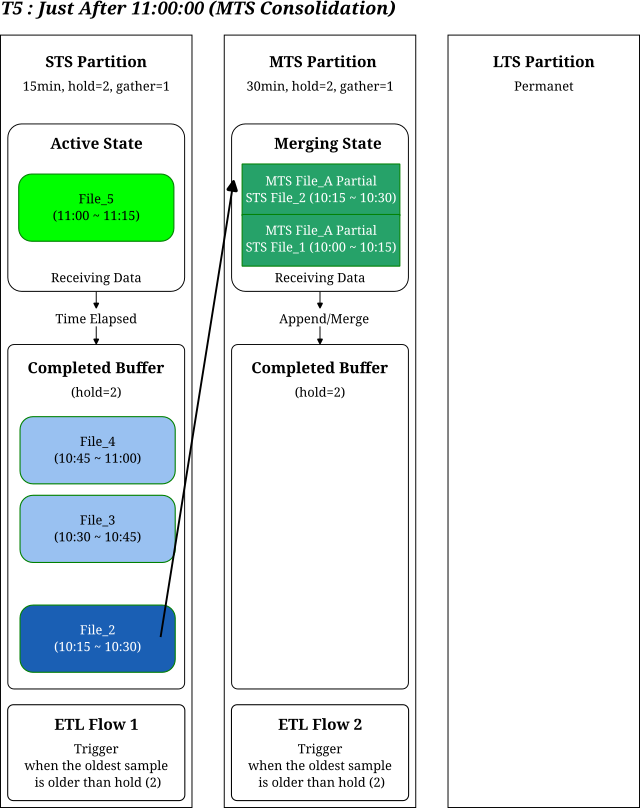
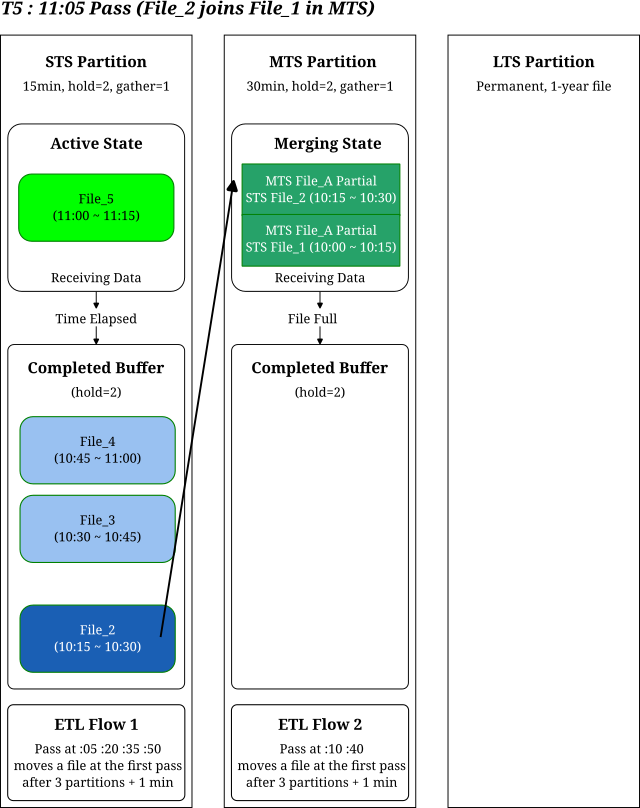
Rewrite the Data Journey document from runs of the real ETL
The document gives the pass schedule, the hold and gather rules, a timeline
whose rows come from a run, and the runs that verify it. The six figures and
the index row follow the new text.

diff --git a/docs/README.DataJourney.md b/docs/README.DataJourney.md
@@ -1,126 +1,259 @@
 ---
 title: The Data Journey in the EPICS Archiver Appliance
 author: Sangil Lee & Jeong Han Lee
-date: 2026-01-02
-version: 1.0
+date: 2026-10-18
+version: 1.1
 ---
 # The Data Journey in the EPICS Archiver Appliance
 
 **Author:** Sangil Lee & Jeong Han Lee
 
-This document outlines the storage hierarchy and ETL logic of the Archiver Appliance, incorporating a timestamped scenario to illustrate how data moves over time.
+This document explains when and how the ETL (the part of the appliance that moves archived data from one storage tier to the next) moves the data of one PV (Process Variable, a named data channel of the control system) from Short Term Storage (STS) to Middle Term Storage (MTS) and from MTS to Long Term Storage (LTS). It follows one scenario with exact times. The times, the file contents and the sample counts of the scenario come from a run of the real ETL pass scheduler, the real ETL job and the real storage plugins with a simulated clock (section 6).
 
 ## Executive Summary
 
-The Archiver Appliance utilizes a three-tiered storage strategy to balance high-speed data acquisition with long-term capacity management. Data flows from high-speed Short Term Storage (STS), is consolidated into larger files in Middle Term Storage (MTS), and finally rests in permanent Long Term Storage (LTS).
+The Archiver Appliance stores the data of a PV in three tiers. STS receives the samples, MTS receives the STS files and appends them into larger files, and LTS keeps the data permanently. The ETL moves data from one tier to the next in **passes**. A pass starts at fixed times, and in each pass the parameters `hold` and `gather` decide which files move.
 
-The crucial logic determining **when and how much data to move** between these tiers is defined by the ETL rules: `hold` and `gather`.
+The terms of this document:
 
+* **Partition:** the time span that one file covers. The file is named after the start of its partition. `P` is the partition length of a tier.
+* **Transition:** the move from one tier to the next: STS to MTS, and MTS to LTS.
+* **Pass:** one run of the ETL jobs of the PVs that share a transition and a cadence. Passes start at fixed times (section 2).
+* **Processing time `T_PROCESS`:** the time that a pass uses as its current time: the start of the pass minus 60 seconds.
+* **`hold` and `gather`:** settings of a tier that decide which of its files a pass moves (section 3).
+* **Hold boundary and gather boundary:** two times computed from `T_PROCESS` that the first samples of files are compared with (section 3, steps 2 and 3).
+* **Move and append:** a move appends the samples of the source file to a file of the destination and then deletes the source file. Each source file that is appended to a destination file is one part of that file. A file arrives in a tier when its first sample, or its first part, is written to that tier.
+* **Candidate and eligible:** a candidate is a file that a pass considers (section 3, step 1). An eligible candidate is a candidate that the pass moves: its first sample is at or before the gather boundary, and the oldest candidate that holds a sample has passed the hold boundary. With `hold=0` and `gather=0` every candidate that holds a sample is eligible, but a header-only candidate (a file that has a header but no sample) stops the job at that file (Files without samples).
+* **Over and full:** a partition is over when its time span has ended. A file is full when it holds all samples of its partition. An STS file is full when its partition is over. An MTS file is full when its last part has arrived, which can be after its partition is over. An MTS file that lacks a part never becomes full and moves by the time rule (Fullness in section 3).
+
+The two facts that answer most questions:
+
+* **When:** with `gather=1` and fixed-length partitions (`PARTITION_5MIN` to `PARTITION_DAY`; otherwise use the steps of section 3), a file whose partition starts at time `S` moves in the first pass that starts at or after `S + (hold + 1) * P + 60 s`, where `P` is the partition length and `hold` the setting of the tier that the file leaves. A file that is eligible when it arrives in the source tier moves in the first pass after it arrives. The rule needs `hold` and `gather` above zero; for `hold=0` and `gather=0` see Defaults in section 3. The pass starts come from a fixed schedule (section 2), except the start-up pass after the ETL starts, a scheduled time that an overrun skips, and a pass that waits for a running pass of a lower-numbered transition.
+* **How:** the destination appends the samples of the source file to its own file for the destination partition that contains them. Two 15-minute STS files are appended into one 30-minute MTS file, and the move deletes the source file. With `gather=1` and a destination partition that spans two source partitions, the data of the first file waits in the destination until the next file arrives.
 
 ## 1. Storage Tiers and File Units
 
+The scenario uses the following settings. All times are UTC.
+
+| Item | Value |
+| :--- | :--- |
+| STS partition | `PARTITION_15MIN`: one file holds 15 minutes |
+| MTS partition | `PARTITION_30MIN`: one file holds 30 minutes |
+| LTS partition | `PARTITION_YEAR`, the shipped value: one file holds one year |
+| ETL rule | `hold=2`, `gather=1` on STS and MTS |
+| Samples | one sample every 10 seconds, the first at 10:00:00 |
+
+The data of a PV is stored in `.pb` files. Each file covers one partition of its tier and is named after the start of that partition in UTC, for example `ApplTest/AN/F/Analog10:2026_01_01_10_15.pb` for the 15-minute partition that starts at 10:15 on the date of the scenario, 2026-01-01. A full 15-minute STS file of the scenario holds 90 samples, a full 30-minute MTS file holds 180 samples, and the LTS file grows by the samples of every file that arrives.
+
 Data moves through the following stages:
 
-1.  **STS (Short Term Storage):**
-    * Role: Designed for high-frequency writes, typically on fast media like RAMDisks or SSDs. Files here are temporary and meant for ETL migration.
-    * File Unit: In this scenario, we use a `PARTITION_15MIN` granularity, meaning each `.pb` file holds 15 minutes of data.
-2.  **MTS (Middle Term Storage):**
-    * Role: An intermediate staging area that consolidates smaller files from STS into larger units. Data here is also temporary.
-    * File Unit: Here, we use `PARTITION_30MIN`, consolidating two 15-minute files from STS into one 30-minute file.
-3.  **LTS (Long Term Storage):**
-    * Role: The final destination for the permanent archiving of historical data.
+1.  **STS:** Designed for high-frequency writes, typically on fast media such as a RAM disk or an SSD. Files here are temporary and meant for ETL migration.
+2.  **MTS:** An intermediate area that appends the smaller STS files into larger units. Files here are also temporary.
+3.  **LTS:** The final destination of the data. Because the LTS partition is one year, the data that arrives in LTS is appended to one file for the year; it does not stay as separate files of 30 minutes.
 
-### Two Critical File States
+### File States
 
-Data files exist in one of two states based on time:
+* **Active:** The partition of the file contains the current time, and the file receives samples.
+* **Completed:** An STS file is completed when its partition is over; an MTS file is completed when it is full (see Over and full in the Executive Summary).
+* **Partial (MTS):** an MTS file that has received only some of its parts. The figures label such a file Partial; the box that holds it is the Merging State. A partial file is not completed. A partial file can be a candidate: a file is a candidate in a pass when its partition starts before the partition that contains the processing time of the pass (section 3).
 
-* **Active State:** The file is currently being written to, and its defined time duration has not yet elapsed.
-* **Completed State:** The time duration has passed, and the file is closed. ETL movement rules (`hold`) apply ONLY to these 'Completed' files.
+## 2. When the ETL Runs
 
+The ETL does not run at the moments when partitions end. Each transition between two tiers has a schedule of fixed pass start times.
 
-## 2. Data Movement Rules: ETL Flow Control
+* **Cadence:** the length of the source partition, at most 8 hours. STS of 15 minutes gives 900 s, MTS of 30 minutes gives 1800 s.
+* **Offset:** 5 minutes times (transition number + 1). STS to MTS is transition 0 with offset 5 minutes. MTS to LTS is transition 1 with offset 10 minutes.
+* **Schedule:** the pass start times are whole multiples of the cadence counted from the Unix epoch, plus the offset.
+* **Start:** a pass starts at the first check (the scheduler checks every 5 seconds) at or after its scheduled time. A pass does not start while a pass of a lower-numbered transition is running; it starts at the first check after that pass ends.
+* **Overrun:** when a pass ends after the next scheduled time of its transition, the scheduled times inside the pass are skipped, and the next pass starts at the first scheduled time after the pass ended.
+* **PVs:** one pass runs the jobs of all PVs that use the same transition and cadence, one after another. Each pair of transition and cadence has its own driver, so PVs with different source partitions run in different passes.
+* **Processing time:** every job of a pass uses the start time of the pass minus 60 seconds as its current time. The 60 seconds are a fixed margin of the scheduler. All boundaries in section 3 are computed from this time.
+* **Start of the ETL:** each driver that holds at least one PV runs a start-up pass. The drivers of transition 0 start it at the first check after the ETL starts; a driver of a higher transition starts it at the first check at which no pass of a lower transition runs. A driver without PVs waits for its next scheduled time.
 
-The rules for moving data between tiers are dictated by the `hold` and `gather` parameters. This explanation uses the recommended configuration of `hold=2` and `gather=1`.
+For the scenario this gives (the tables assume that a pass starts on its scheduled time; the real start is the first check, up to 5 seconds later):
 
-ETL uses time boundaries derived from the evaluation time and the tier's partition duration.
+| Transition | Cadence | Offset | Pass starts | Processing time |
+| :--- | :--- | :--- | :--- | :--- |
+| STS to MTS | 900 s | 5 min | hh:05, hh:20, hh:35, hh:50 | hh:04, hh:19, hh:34, hh:49 |
+| MTS to LTS | 1800 s | 10 min | hh:10, hh:40 | hh:09, hh:39 |
 
-* `hold`: Subtract `hold` times the approximate partition duration from the evaluation time, then take the last second of the preceding partition. The oldest candidate file must have its first sample at or before this boundary.
-* `gather`: Compute a second boundary in the same way using `hold - (gather - 1)` partition durations. Select files whose first samples are at or before that boundary. With `hold=2` and `gather=1`, both boundaries are the same.
-* A delayed ETL run can select several files even with `gather=1`. Missing partitions do not postpone eligibility; the age of the available data determines when it can move.
-* Use nonnegative values with `hold >= gather`; equality is allowed. Both values default to zero, which skips these boundaries and takes the available candidates before the current partition.
+The shipped policy (STS `PARTITION_HOUR`, MTS `PARTITION_DAY`, LTS `PARTITION_YEAR`, `hold=2` and `gather=1` on STS and MTS) gives:
 
-See [ETL flow control](README.policies.md#23-etl-flow-control) for the policy parameter reference.
+| Transition | Cadence | Offset | Pass starts (UTC) |
+| :--- | :--- | :--- | :--- |
+| STS to MTS | 3600 s | 5 min | every hour at hh:05 |
+| MTS to LTS | 28800 s (the 8-hour limit) | 10 min | 00:10, 08:10 and 16:10 |
 
-## 3. Timeline Scenario: A Day in the Life of Data
+## 3. What One Pass Moves: `hold` and `gather`
 
-Let's trace the journey of data with a concrete timeline to visualize the flow.
+Let `P`, `hold` and `gather` be the settings of the tier that the files leave (STS for the move to MTS, MTS for the move to LTS), and `T_PROCESS` the processing time of the pass.
 
-**Scenario Settings:**
-* Start Time: 10:00:00 AM
-* STS Partition: 15 minutes
-* MTS Partition: 30 minutes
-* ETL Rule: `hold=2`, `gather=1`
+1. **Candidates:** the files of the PV whose partition starts before the partition that contains `T_PROCESS`, from the oldest to the newest.
+2. **Hold boundary:** subtract `hold * P` from `T_PROCESS`, find the partition that contains the result, and take the last second of the partition before it. The oldest candidate that holds a sample must have its first sample at or before this boundary; a zero-byte or header-only candidate before it is skipped, and deleted when it is old (Files without samples). If the first sample of that candidate is later, nothing moves in this pass.
+3. **Gather boundary:** compute a boundary in the same way with `hold - (gather - 1)` partitions instead of `hold`. Every candidate whose first sample is at or before this boundary moves. With `gather=1` both boundaries are the same, whatever the value of `hold`.
+4. **Defaults:** `hold=0` and `gather=0` skip both boundaries, and every candidate that holds a sample moves. A header-only candidate breaks this: the job of the PV fails at that file, and no file of the pass is deleted from the source (Files without samples). Use nonnegative values with `hold >= gather`; equality is allowed.
 
-All times are UTC. The example assumes continuous samples from 10:00 and ETL evaluations at the times shown. File counts describe the displayed state; the time boundaries determine eligibility.
+**Closed form.** The closed form holds for `hold` and `gather` above zero; for `hold=0` and `gather=0` see Defaults below. For files whose first sample is at the start of their partition, as in the scenario, the rule says: a file with partition start `S` moves in the first pass with `T_PROCESS >= S + (hold - gather + 2) * P`, provided that the oldest candidate that holds a sample, with partition start `S_oldest`, satisfies `T_PROCESS >= S_oldest + (hold + 1) * P`. With `gather=1` this is `T_PROCESS >= S + (hold + 1) * P`, so the pass must start at or after `S + (hold + 1) * P + 60 s`. The formula is exact for tiers of a fixed partition length (`PARTITION_5MIN` to `PARTITION_DAY`). For `PARTITION_MONTH` and `PARTITION_YEAR` the subtraction uses 31 and 366 days and the partitions are calendar months and years, so use the steps above. With `PARTITION_MONTH` and `hold=1`, the file of February moves on 1 April, while the formula gives 4 April. A file that is eligible when it arrives in the source tier moves in the first pass that starts after it arrives. A file whose first sample lies inside its partition, up to the last whole second (for example 10:07:30 or 10:14:59.0), moves in the same pass as a file that starts at the partition start; it holds fewer samples. A first sample after the last whole second, such as 10:14:59.5, is later than the boundary, and the file moves one partition later.
+
+**Worked example.** At the 10:50 pass, `T_PROCESS` is 10:49:00. Subtracting `2 * 15 min` gives 10:19:00. This lies in the partition 10:15 to 10:30, so the boundary is 10:14:59, the last second of the partition 10:00 to 10:15. The candidates are File_1 (10:00), File_2 (10:15) and File_3 (10:30). The partition of File_4 (10:45) contains `T_PROCESS`, so it is the active file. The first sample of File_1 is 10:00:00, which is at or before 10:14:59, so File_1 moves. The first sample of File_2 is 10:15:00, which is after the boundary, so File_2 stays. At the 10:35 pass `T_PROCESS` is 10:34:00, the boundary is 09:59:59, and File_1 (10:00:00) is after it, so nothing moves.
+
+**Why `hold` waits.** Keeping the files of the newest `hold` partitions in the source tier lets retrievals of recent data read from the faster tier.
+
+**How the destination receives the data.** The job appends the samples of the source file to the destination file of the partition that contains them. The destination file is created when the first part arrives and receives the next parts until it is full or moves to the next tier (Fullness). The source file is deleted after the destination has stored its samples, so during a move the file exists in both tiers.
+
+**More than one file per pass.** `gather` sets the second boundary, which decides how many files move together. With `hold=2` and `gather=2`, File_1 and File_2 leave STS together at the 10:50 pass and the MTS file for 10:00 to 10:30 appears with 180 samples at once; the next move is File_3 and File_4 at 11:20, then every 30 minutes. With `gather=2` on STS only and `gather=1` on MTS, the MTS to LTS transition keeps moving one file at a time: the 10:00 file at 11:40 and the 10:30 file at 12:10. A pass that starts late can also select several files with `gather=1`, because every eligible candidate moves. A missing partition does not delay a move: the age of the oldest available data decides.
+
+**Fullness.** The rule compares times only and does not check whether a file is full. A partial MTS file moves when its boundary is met, and the parts that arrive later form a new file for the same partition, which moves in a later pass. In the scenario and in the shipped policy an MTS file is full before its boundary is met.
+
+**Defaults.** With `hold=0` and `gather=0`, each STS file moves in the first pass whose processing time `T_PROCESS` is at or after the end of its partition: File_1 at 10:20, File_2 at 10:35, and so on.
+
+**Samples at the edges.** A partition includes its first second and excludes the instant at which the next partition starts: File_1 covers 10:00:00 up to, but not including, 10:15:00, so the sample stamped 10:15:00 belongs to File_2, and the last sample of File_1 is 10:14:50. In the simulated run, a sample stamped at the start of a pass is appended after the pass runs, so the active file at the 10:50 pass holds 30 samples (10:45:00 to 10:49:50). A real pass starts up to 5 seconds after its scheduled time, and its active file can also hold the sample stamped 10:50:00.
+
+**Files without samples.** The plugin skips a zero-byte file and deletes it when its modification time in the file system is more than `hold + 1` partitions before the processing time `T_PROCESS`. A header-only file is skipped and deleted in the same way when `hold` or `gather` is above zero. With `hold=0` and `gather=0` the job of the PV fails with a `NullPointerException` at that file: the candidates before it are appended to the destination, the candidates after it are not processed, and no file of the pass is deleted from the source.
+
+### Where the Settings Come From
+
+The shipped `policies.py` is rendered from `site-template/policies.py.in`. It sets the partition and the `hold` of each tier from the Make variables `ARCHAPPL_STS_GRANULARITY`, `ARCHAPPL_STS_HOLD`, `ARCHAPPL_MTS_GRANULARITY`, `ARCHAPPL_MTS_HOLD` and `ARCHAPPL_LTS_GRANULARITY`; see [Store settings as build variables](README.policies.md#55-store-settings-as-build-variables). The template fixes `gather=1` on STS and MTS and accepts only positive integers for `hold`. A value such as `gather=2`, or the defaults `hold=0` and `gather=0`, needs an edit of the template `site-template/policies.py.in`. `make conf` renders `site-template/policies.py` from the template, and `make install` copies that file over the installed `policies.py`. An edit of the template takes effect after `make conf`, and an edit of the installed file is lost at the next `make install`.
+
+A changed template or Make variable reaches only the PVs that are archived after the change. When a PV is archived, its store URLs with their `hold` and `gather` are written to the type information of the PV, and the ETL builds the source and the destination of each transition from those URLs. A PV that was archived before the change keeps its stored URLs after `policies.py` changes (section 6).
+
+## 4. Timeline Scenario: A Day in the Life of Data
+
+The scenario starts with the first sample at 10:00:00. The ETL runs before that, so its passes follow the schedule of section 2. The table shows the first partition changes and then every pass up to 13:10 that moves data. In every other pass up to 13:10 the files stay where they are, because no candidate is eligible or no candidate exists: 10:05, 10:10, 10:20, 10:35, 10:40 and 11:10 are examples.
+
+|Time|Pass|What moves|STS after the pass|MTS after the pass|LTS after the pass|
+| :--- | :--- | :--- | :--- | :--- | :--- |
+|10:00| |The first sample arrives|File_1 (10:00) active| | |
+|10:15| |File_1 is completed with 90 samples; File_2 starts|File_1 completed; File_2 active| | |
+|10:30| |File_2 is completed with 90 samples; File_3 starts|File_1, File_2 completed; File_3 active| | |
+|10:45| |File_3 is completed with 90 samples; File_4 starts|File_1, File_2, File_3 completed; File_4 active| | |
+|10:50|STS to MTS|File_1 moves|File_2, File_3 completed; File_4 active|10:00 file, 90 samples| |
+|11:05|STS to MTS|File_2 moves|File_3, File_4 completed; File_5 active|10:00 file full, 180 samples| |
+|11:20|STS to MTS|File_3 moves|File_4, File_5 completed; File_6 active|10:00 file; 10:30 file, 90 samples| |
+|11:35|STS to MTS|File_4 moves|File_5, File_6 completed; File_7 active|10:00 file; 10:30 file full, 180 samples| |
+|11:40|MTS to LTS|The 10:00 file moves|File_5, File_6 completed; File_7 active|10:30 file|180 samples (10:00 to 10:30)|
+|11:50|STS to MTS|File_5 moves|File_6, File_7 completed; File_8 active|10:30 file; 11:00 file, 90 samples|180|
+|12:05|STS to MTS|File_6 moves|File_7, File_8 completed; File_9 active|10:30 file; 11:00 file full|180|
+|12:10|MTS to LTS|The 10:30 file moves|File_7, File_8 completed; File_9 active|11:00 file|360 (10:00 to 11:00)|
+|12:20|STS to MTS|File_7 moves|File_8, File_9 completed; File_10 active|11:00 file; 11:30 file, 90 samples|360|
+|12:35|STS to MTS|File_8 moves|File_9, File_10 completed; File_11 active|11:00 file; 11:30 file full|360|
+|12:40|MTS to LTS|The 11:00 file moves|File_9, File_10 completed; File_11 active|11:30 file|540 (10:00 to 11:30)|
+|12:50|STS to MTS|File_9 moves|File_10, File_11 completed; File_12 active|11:30 file; 12:00 file, 90 samples|540|
+|13:05|STS to MTS|File_10 moves|File_11, File_12 completed; File_13 active|11:30 file; 12:00 file full|540|
+|13:10|MTS to LTS|The 11:30 file moves|File_11, File_12 completed; File_13 active|12:00 file|720 (10:00 to 12:00)|
+
+The table shows the state after each event. Between two events the partitions roll over: at 12:00 File_8 is completed and File_9 starts, so the state at 12:00 is the row of 11:50 with File_8 completed and File_9 active.
+
+File_n is the STS file that starts at 10:00 plus (n - 1) times 15 minutes, so File_11 starts at 12:30 and File_13 at 13:00.
+
+The durations follow from the table and the rule of section 3. They are ages counted from the start of the partition, not the time that a file spends in the tier:
+
+* With `gather=1` and `hold` above zero, a file leaves its tier in the first pass that starts at or after `(hold + 1) * P + 60 s` after its partition began. When the partition has a fixed length (`PARTITION_5MIN` to `PARTITION_DAY`), the cadence divides it, and the offset is smaller than the cadence, the pass schedule is aligned to the partition starts, and the age at which the file leaves is `(hold + 1) * P` plus the offset of the transition (5 minutes times (transition number + 1)).
+* In the scenario an STS file leaves STS 50 minutes after its partition starts: 45 minutes plus the offset of 5 minutes. An MTS file leaves MTS 100 minutes after its partition starts: 90 minutes plus the offset of 10 minutes. The 10:00 file is full at 11:05 and leaves at 11:40.
+* The time in a tier is shorter: the two parts of the 10:00 MTS file arrive at 10:50 and 11:05 and leave together at 11:40, after 50 and 35 minutes.
+* With the shipped policy (STS one hour, MTS one day, `hold=2`), an STS file that starts at 10:00 leaves at 13:05 (3 hours plus 5 minutes), and the MTS file of a day leaves at 00:10 UTC, three days after that day begins (3 days plus 10 minutes).
+
+### Reading the Figures
+
+Each figure shows one tier in each column.
+
+* **Active State** (STS) and **Merging State** (MTS) hold the file that receives data. In MTS this is the file of the 30-minute partition that receives the arriving STS files as appended parts; the long black arrow from the STS Completed Buffer to the MTS box is the move and append of section 3, and the small arrow labeled **File Full** inside the MTS column shows the full MTS file moving to its Completed Buffer.
+* **Completed Buffer** holds the files that wait for a pass: in STS the files whose partition is over, in MTS the full files. An MTS file that is not full yet is in the Merging State. The label `(hold=2)` names the setting. In the STS of the scenario the buffer holds three files just before a move and two after it; in the MTS it holds two and one. The MTS count is smaller because each MTS file receives its parts 50 and 65 minutes after its partition starts: at 11:40 the file of 11:00 to 11:30 is not in MTS yet. Figure 6 is drawn in the middle of the 12:35 pass, before File_D is full, so its MTS buffer shows only File_C, the MTS file of 11:00 to 11:30. The dark blue file is the one that the pass moves.
+* **Time Elapsed** is the arrow from the active box to the completed buffer: a file goes there when its partition is over. **Receiving Data** is the fixed label of an active box, also when the box is empty. **ETL Flow 1** and **ETL Flow 2** give the pass times of the transition and the age at which a file moves: the first pass at least `hold + 1` partitions and 1 minute after the start of its partition.
+* The titles of the columns ("STS Partition", "MTS Partition", "LTS Partition") name the tier; the word partition there is not the time span of the terms list. The subtitle of an STS or MTS column gives the partition length, `hold` and `gather` of the tier; the subtitle of the LTS column names its one-year file.
+* Colors: green is the active file, light blue a completed file, dark blue the file that the pass moves, teal an MTS file that receives parts, light green the part that has not arrived, and purple data in LTS. **Partial** names an MTS file that has not received all its parts when the pass starts; in Figures 5 and 6 the file is drawn with both parts because the pass makes it full. The purple box of Figure 6 shows the range of data inside the one LTS year file; it is not a partition.
+* Figures 4 to 6 draw a pass in progress: the moving file is drawn in its source tier and, joined by the arrow, in its destination.
+* File_1, File_2, and so on are the STS files. File_A, File_B, File_C and File_D are the MTS files of 10:00-10:30, 10:30-11:00, 11:00-11:30 and 11:30-12:00. LTS holds one file for the year.
 
 ### [T1] 10:00:00 - 10:15:00 (The First 15 Minutes)
 * **STS:** The first file, `File_1 (10:00-10:15)`, is created. Data is actively being written to it (Active State).
+* **Passes:** The 10:05 pass finds no candidate: File_1 is the active file.
 
 |![T1](./figures/T1.png)|
 | :---: |
 |**Figure 1** T1, The First 15 Minutes|
 
 ### [T2] 10:15:00 - 10:30:00 (The Second 15 Minutes)
-* **STS:** `File_1` completes its 15-minute span and moves to the Completed buffer.
-    * Completed Buffer Count: 1 (`File_1`).
-    * *Action:* At 10:15, the STS boundary is 09:44:59. `File_1` starts at 10:00, so it is not yet eligible.
-* **STS:** A new file, `File_2 (10:15-10:30)`, begins writing (Active State).
+* **STS:** `File_1` is completed and waits. `File_2 (10:15-10:30)` begins writing.
+* **Passes:** At the 10:20 pass, `T_PROCESS` is 10:19:00 and the boundary is 09:44:59. The first sample of File_1 is 10:00:00, which is after the boundary, so File_1 is not eligible.
 
 |![T2](./figures/T2.png)|
 | :---: |
 |**Figure 2** T2, The Second 15 Minutes|
 
 ### [T3] 10:30:00 - 10:45:00 (The Third 15 Minutes)
-* **STS:** `File_2` completes and enters the buffer.
-    * Completed Buffer Count: 2 (`File_1`, `File_2`).
-    * *Action:* At 10:30, the STS boundary is 09:59:59. `File_1` starts at 10:00, so it is still not eligible.
-* **STS:** A new file, `File_3 (10:30-10:45)`, begins writing.
+* **STS:** `File_2` is completed. Two files are completed, `File_1` and `File_2`, and `File_3 (10:30-10:45)` begins writing.
+* **Passes:** At the 10:35 pass, `T_PROCESS` is 10:34:00 and the boundary is 09:59:59. The first sample of File_1 is 10:00:00, which is after the boundary, so File_1 is not eligible.
 
 |![T3](./figures/T3.png)|
 | :---: |
 |**Figure 3** T3, The Third 15 Minutes|
 
-### [T4] Just After 10:45:00 (ETL Trigger Moment)
-* **STS:** `File_3` completes and enters the buffer.
-    * Completed Buffer Count: 3 (`File_1`, `File_2`, `File_3`).
-    * *Trigger:* At 10:45, the STS boundary is 10:14:59. The first sample in `File_1` is at or before it.
-    * *Action:* `File_1 (10:00-10:15)` is moved to MTS. `File_2` starts at 10:15 and remains in STS.
-* **MTS:** `File_1` arrives in MTS. It becomes the first half (Active State) of a new 30-minute partition covering `10:00-10:30`.
+### [T4] 10:50 (The STS to MTS Pass That Moves File_1)
+* **STS:** `File_3` completed at 10:45, and `File_4 (10:45-11:00)` is the active file. Three files are completed: `File_1`, `File_2` and `File_3`.
+* **Trigger:** At the 10:50 pass, `T_PROCESS` is 10:49:00 and the boundary is 10:14:59. The first sample of `File_1` is at or before it.
+* **Action:** `File_1 (10:00-10:15)` moves to MTS. The first sample of `File_2` is 10:15:00, and File_2 remains in STS. After the pass two files are completed: with `gather=1`, `hold` completed files remain.
+* **MTS:** `File_1` arrives and creates the file for the partition `10:00-10:30` with 90 samples. The file waits for the second half.
 
 |![T4](./figures/T4.png)|
 | :---: |
-|**Figure 4** T4, Just After 10:45:00|
+|**Figure 4** T4, The 10:50 Pass|
 
-
-### [T5] Just After 11:00:00 (MTS Consolidation)
-* **STS:** At 11:00, the STS boundary advances to 10:29:59, making `File_2 (10:15-10:30)` eligible to move to MTS.
-* **MTS:** `File_2` arrives and is merged/appended with the waiting `File_1`.
-* **Result:** A complete 30-minute file for the total period `10:00-10:30` is formed. At 11:00, the MTS boundary is 09:59:59, so its first sample at 10:00 is not yet eligible to move to LTS.
+### [T5] 11:05 (The Pass That Fills the First MTS File)
+* **STS:** At the 11:05 pass, `T_PROCESS` is 11:04:00 and the boundary is 10:29:59, so `File_2 (10:15-10:30)` is eligible. `File_5 (11:00-11:15)` is active.
+* **MTS:** `File_2` is appended to the waiting `File_1`. The file for `10:00-10:30` holds 180 samples and is full.
+* **LTS:** The MTS file has to wait: at the 11:10 pass, `T_PROCESS` is 11:09:00 and the MTS boundary is 09:59:59, so its first sample at 10:00 is not eligible. It moves at 11:40, the first pass with `T_PROCESS` of 11:30 or later.
 
 |![T5](./figures/T5.png)|
 | :---: |
-|**Figure 5** T5, Just After 11:00:00|
+|**Figure 5** T5, The 11:05 Pass|
 
+### [T6] 12:35 (Continuous Operation)
 
-### [T6] Long After T5 (Continuous Operation)
+After a longer period, the system reaches a steady state: every 15 minutes an STS file leaves STS, every 30 minutes MTS receives the last part of a file, and every 30 minutes the oldest MTS file moves to LTS. The figure shows the 12:35 pass.
 
-After a longer period, the system reaches a steady state: STS keeps completing files and handing the oldest one to MTS, MTS keeps assembling them, and data that has aged past the MTS `hold` boundary keeps moving on to LTS. This final image illustrates the complete end-to-end data flow.
-
-* **STS:** `File_11 (12:30-12:45)` is receiving data, while `File_10`, `File_9` and `File_8` wait in the Completed buffer. `File_8 (11:45-12:00)` is the one ETL is moving out.
-* **MTS:** `File_D` is being assembled from the arriving `File_7` and `File_8`. Its Completed buffer is empty.
-* **LTS:** `File_C (11:00-11:30)`, `File_B (10:30-11:00)` and `File_A (10:00-10:30)` now sit in permanent storage. At this 12:30 evaluation the MTS `hold` of 2 over a 30-minute partition puts the boundary at 11:29:59, and any file whose first sample is at or before it has already left MTS. `File_B` and `File_C` both qualify, which is why the MTS Completed buffer is empty.
+* **STS:** `File_11 (12:30-12:45)` is receiving data, while `File_10`, `File_9` and `File_8` wait as completed files. `File_8 (11:45-12:00)` is the one the pass moves out.
+* **MTS:** `File_D (11:30-12:00)` receives `File_7`, which arrived at 12:20, and `File_8`, which arrives in this pass. `File_C (11:00-11:30)` is full and waits for the MTS to LTS pass at 12:40.
+* **LTS:** The data of `File_A (10:00-10:30)` and `File_B (10:30-11:00)` is in the LTS file, which holds 360 samples. `File_C` joins at 12:40 and `File_D` at 13:10.
 
 |![T6](./figures/T6.png)|
 | :---: |
-|**Figure 6** T6, Long After T5|
+|**Figure 6** T6, The 12:35 Pass|
 
+## 5. Reading the Numbers
+
+* **`hold`:** how many further partitions of the source tier must elapse after a file's own partition. With `gather=1`, a file can leave when `hold + 1` partition lengths have passed since its partition began; with a larger `gather`, the files after the oldest leave earlier (Closed form in section 3). With `gather=1`, `hold` completed files remain in the STS of the scenario after a pass that moved a file; with a larger `gather`, `hold - gather + 1` remain. In the MTS of the scenario one full file remains after a pass of MTS to LTS, because the file of the next partition has not arrived yet; the count in a tier depends on when the parts arrive, so it is not `hold` in general. The rule counts time, not the number of files in the source tier.
+* **`gather`:** sets the boundary for the files that move after the oldest candidate that holds a sample has satisfied `hold`. Every candidate at or before the gather boundary moves; in the scenario, a pass on the regular schedule that moves files moves `gather` files, and a late pass can move more (More than one file per pass in section 3). With `gather=2` in the scenario, a move happens every second pass.
+* **Boundary times such as 10:14:59:** the hold boundary is the last second of the partition that precedes the partition containing `T_PROCESS - hold * P` (section 3, step 2); section 3, step 3 gives the gather boundary. A candidate moves when its first sample is at or before the gather boundary and the oldest candidate that holds a sample has passed the hold boundary.
+* **Processing time `T_PROCESS`:** the start of the pass minus 60 seconds. Every boundary is computed from `T_PROCESS`, not from the start time of the pass.
+* **Sample counts such as 90 and 180:** one sample every 10 seconds gives 6 samples per minute, 90 samples in 15 minutes and 180 samples in 30 minutes. In the scenario, a file with a smaller count is receiving data or waits for its second half. A real PV has a count that depends on its event rate; only the times of its first and last sample follow the rules above.
+* **Disk planning:** the document counts samples, not bytes; multiply the sample counts by the size of one sample of the PV. For the shipped policy a PV has, just before the STS to MTS pass at hh:05, three completed hour files and the active file in STS (3 hours 5 minutes of samples). Just before the MTS to LTS pass at 00:10 it has three day files in MTS: two full files and a partial file of 22 hours, because the last two hours of that day reach MTS at 01:05 and 02:05 on the next day. The file that is being moved exists in both tiers during the move.
+* **When a file reaches MTS:** ask three questions in this order. First, is the partition of the file over? Second, for `hold` and `gather` above zero and fixed-length partitions (`PARTITION_5MIN` to `PARTITION_DAY`; otherwise use the steps of section 3) the pass must start at or after `S + (hold - gather + 2) * P + 60 s`, where `S` is the start of the file; with `gather=1` this is `S + (hold + 1) * P + 60 s`. The oldest candidate that holds a sample must satisfy `T_PROCESS >= S_oldest + (hold + 1) * P` too; otherwise nothing moves in the pass. Third, the move happens in the first scheduled pass at or after that time; the passes of STS to MTS start only at the times of section 2, except the start-up pass after the ETL starts, a time that an overrun skips, and a pass that waits for a running pass of a lower-numbered transition. For the shipped policy the data of the hour that starts at 10:00 reaches MTS at 13:05 UTC.
+
+## 6. Runs That Verify the Scenario
+
+Every statement about the moves of files and the schedule of passes comes from a run of the ETL code of the source repository (commit `65245250`), except the points named at the end of this section. The runs use the real `PBThreeTierETLPVLookup`, `ETLPassTicker` and `ETLPassDriver` for the schedule, the real `ETLJob` for the moves, and the real `PlainPBStoragePlugin` for STS, MTS and LTS. The runs on this host simulate only the clock; the run on the guest uses the real clock. A test writer stands in for the engine and appends one sample at a time through the real plugin. File modification times are real. The ticker advances in steps of 5 seconds, unless a run says otherwise, and the content of the stores is read after every pass.
+
+* **The scenario** (STS `PARTITION_15MIN`, MTS `PARTITION_30MIN`, `hold=2`, `gather=1`, one sample every 10 seconds) gives the table of section 4, the boundaries of the worked example and the per-time text.
+* **Every combination of `hold` from 0 to 3 and `gather` from 0 to `hold`,** on STS and on MTS, over eight hours, gives the steps and the closed form of section 3 and the Defaults.
+* **`hold` and `gather` of 4 and 2, 5 and 1, 5 and 3, 5 and 5, and 6 and 3,** over sixteen hours, give the count of completed files that remain in STS after a pass, `hold - gather + 1`.
+* **`gather=2` on STS only and `gather=1` on MTS** gives the MTS to LTS times of More than one file per pass.
+* **The shipped partitions** (`PARTITION_HOUR`, `PARTITION_DAY`, `PARTITION_YEAR`) over four days give the shipped moves and the numbers of section 5. A run of three days with the same partitions gives the shipped pass starts: hh:05 for STS to MTS, and 00:10, 08:10 and 16:10 for MTS to LTS.
+* **STS `PARTITION_5MIN` with MTS `PARTITION_15MIN`, both of `PARTITION_5MIN`, `PARTITION_MONTH` with `PARTITION_YEAR` for `hold` 1 and 2 (checks every 60 seconds), and both of `PARTITION_YEAR` (checks every 300 seconds)** give the durations of section 4 and the limits of the closed form.
+* **STS `PARTITION_DAY` with MTS `PARTITION_MONTH`, and samples at irregular times,** give the same results as the steps of section 3; only the time of the first sample of a file counts.
+* **STS `PARTITION_5MIN` with `hold=10` and MTS `PARTITION_30MIN` with `hold=1`** gives the move of a partial MTS file in Fullness.
+* **An ETL start at 11:03:17 over data written before the start** gives the start-up pass.
+* **The real ticker thread, with a clock that runs 30 times faster than the wall clock,** gives the check every 5 seconds: the passes start 5.0 seconds apart. A driver of transition 1 starts its start-up pass at the first check at which no pass of transition 0 starts.
+* **A clock that reads 20 minutes later at the end of every pass** gives the Overrun rule. **250000 PVs with a clock that runs 60 times faster** give it again with passes of about 1.2 to 1.4 seconds of wall time that cross a scheduled time: that time is skipped and the next pass starts at the first scheduled time after the pass ended.
+* **A PV with two stores and a PV whose ETL jobs are deleted** give the rule that a start-up pass runs only for a driver that holds a PV.
+* **Three PVs, two with STS `PARTITION_15MIN` and one with STS `PARTITION_HOUR`,** give one driver for each pair of transition and cadence, one pass for the PVs of the same pair, and the order of the start-up passes.
+* **The real `ETLJob` over real PlainPB stores** runs a zero-byte file and a header-only file, each with an old and a recent modification time, with `hold=0` and `gather=0` and with `hold=2` and `gather=1`. It runs files whose first sample is at 10:00:00, 10:07:30, 10:14:59.0 and 10:14:59.5. It runs a zero-byte file whose modification time is 1 second inside, exactly at and 1 second beyond the limit of `hold + 1` partitions. It runs a zero-byte and a header-only file as the oldest candidate, and stores where older partitions, or a partition between two others, are missing. These runs give Files without samples, Defaults, the hold check on the oldest candidate that holds a sample, the first-sample sentence of the closed form and the sentence on a missing partition.
+* **The real driver with two PVs on one pass,** one of them with a header-only file and `hold=0`, `gather=0`, gives that the failed job of one PV does not stop the job of the other PV.
+* **A read of each store after the scenario to 12:36** gives that the data of the newest `hold` partitions can be read from STS alone: 216 samples for 12:00 to 12:36, and none of them in MTS or LTS.
+* **The real policy engine with two `policies.py` files** that differ only in the MTS `hold` (2 and 7) and the real ETL lookup give Where the Settings Come From: the PV archived under the first file keeps `hold=2` in its ETL source after the file is replaced by the second, and a PV archived afterwards gets `hold=7`. One run keeps the type information of the PV in the in-memory store of the test service, and one run keeps it in a real SQLite database that a new persistence object reads after the change.
+* **A fresh Debian 13 guest with MariaDB over a local socket and the installed appliance** (the case `debian13-socket` of the VM driver, environment commit `1461cfa`, source commit `65245250`, checks T3 to T12 passed) ran for 70 minutes with the real clock, `PARTITION_5MIN` for STS (`hold=2`, `gather=1`) and for MTS (`hold=1`, `gather=1`). Eleven files of STS left STS, each at the scheduled time 20 minutes after the start of its partition, at most 1 second late, and each MTS file left 5 seconds after it. After a pass two completed files remained in STS. A PV archived before `hold` of STS changed from 2 to 4 in `policies.py` kept `hold=2` in its row of the MariaDB table, and a PV archived after the change got `hold=4`.
+* **`make` in a copy of the repository with the install path set to a scratch folder** gives the rest of Where the Settings Come From: `ARCHAPPL_STS_HOLD` of 0, -1 and `abc` stops the rendering with the message that it must be a positive integer, the template carries `gather=1` for STS and MTS, an edit of the template reaches the installed `policies.py` only after `make conf.policies` (a step of `make conf`), and `make policies.install` overwrites an edit of the installed file.
+
+Not run: a complete appliance with the shipped partitions (`PARTITION_HOUR` and `PARTITION_DAY`) over days; the shipped schedule comes from the run of the real classes under a simulated clock, and `make install` ran as a whole only on the guest of the VM driver.
+
+For the scheduler design, see `docs/design-etl-pass-scheduler.md` in the source repository. For the policy parameters, see [ETL flow control](README.policies.md#23-etl-flow-control).

diff --git a/docs/README.md b/docs/README.md
@@ -12,7 +12,7 @@ Detailed guides covering installation, storage architecture, policy configuratio
 | [VM installation and runtime tests](./README.vmtests.md) | Design of the VM test driver: components, run and case model, guest handoff, cleanup verification and verdict. | Running or reviewing the VM acceptance tests. |
 | [Automated tests](../tests/README.md) | Test phases, how to run them, real EPICS Base binaries, and what each check verifies. | Running the local suite or interpreting its results. |
 | [Technical references](./technicaldocs/README.systemd.md) | Systemd unit and health monitoring ([systemd](./technicaldocs/README.systemd.md)), MariaDB connection and accounts ([MariaDB](./technicaldocs/README.mariadb.md)), Tomcat 9 ([Tomcat](./technicaldocs/README.tomcat.md)), Rocky Linux 8 values and verified scope ([Rocky 8](./technicaldocs/README.rocky8.md)). | Looking up how the service, the database or Tomcat is wired, or what is specific to Rocky Linux 8. |
-| [The Data Journey](./README.DataJourney.md) | Conceptual ETL timeline (T1–T6) showing how data physically moves through the system over time. | Understanding why data is or is not yet in MTS, visualizing how `hold` and `gather` interact. |
+| [The Data Journey](./README.DataJourney.md) | The ETL pass schedule and a verified timeline (T1–T6) showing when and how files move from STS to MTS to LTS. | Understanding why data is or is not yet in MTS, visualizing how `hold` and `gather` interact. |
 | [Appliance book](../book/src/index.md) | mdBook written from the code: components, install and operate procedures, reference tables and a glossary. Render it with `mdbook build book`. | Learning the appliance end to end and looking up variables, targets and options. |
 
 ## Quick Lookup
